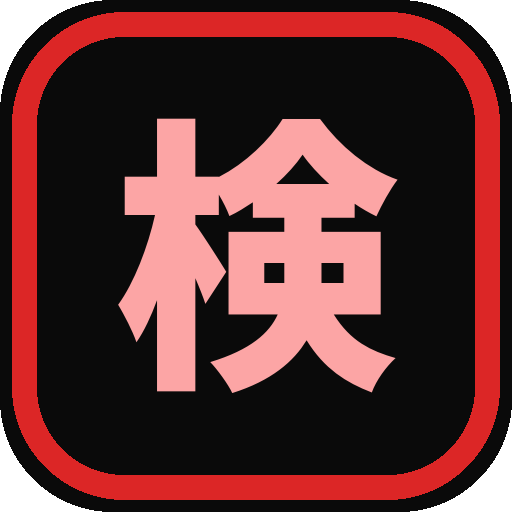
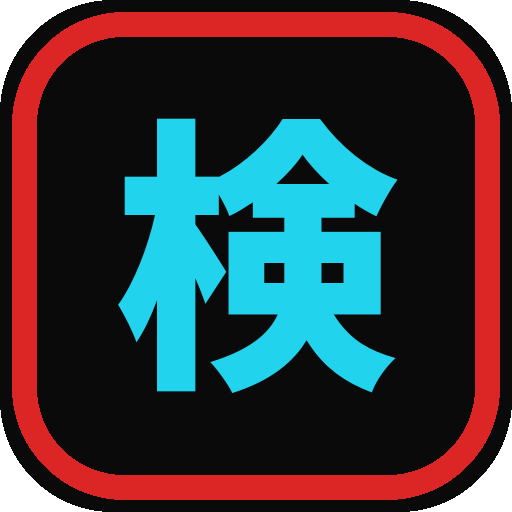
見出しと文字を水色に戻す（背景は黒のまま）

Changed region(s): [[0.2188, 0.2188, 0.7812, 0.7812]]

diff --git a/index.html b/index.html
@@ -19,7 +19,7 @@
   /* 管理用ページなので、検索くん（濃紺＋水色）とはっきり違う色にする。
      開いた瞬間に「いま何を触っているか」が分かるほうが、誤送信を防げる。 */
   --bg:#0a0a0a; --card:#161616; --card2:#1f1f1f; --line:#3a3a3a;
-  --text:#f2f2f2; --dim:#9a9a9a; --cyan:#f87171;   /* 差し色は赤系 */
+  --text:#f2f2f2; --dim:#9a9a9a; --cyan:#22d3ee;   /* 見出しなどの文字は水色（黒地に映える） */
 }
 *{box-sizing:border-box}
 body{
@@ -45,7 +45,7 @@ textarea{min-height:120px;resize:vertical}
   background:var(--card2);border:2px solid var(--line);border-radius:10px;
   font-weight:700;cursor:pointer;user-select:none;
 }
-.app.on{border-color:#f87171;background:rgba(248,113,113,.14)}
+.app.on{border-color:#22d3ee;background:rgba(34,211,238,.14)}
 .app .mk{font-size:18px;width:20px;text-align:center}
 .allbtn{
   width:100%;padding:10px;margin-top:10px;background:var(--card2);
@@ -80,10 +80,10 @@ button:disabled{opacity:.45}
 .quick{display:flex;flex-wrap:wrap;gap:8px;margin-top:8px}
 .quick button{
   padding:9px 13px;font-size:13px;font-weight:700;
-  color:#fca5a5;                      /* 背景が黒なので、明るい赤系にする */
-  background:#2a1a1a;border:1px solid #5a3030;border-radius:20px;cursor:pointer;
+  color:#7dd3fc;                      /* 背景が黒なので、明るい水色にする */
+  background:#12262e;border:1px solid #2b5566;border-radius:20px;cursor:pointer;
 }
-.quick button:active{background:#3d2222;color:#fff}
+.quick button:active{background:#1b3a47;color:#fff}
 /* お知らせバナーの編集欄 */
 .news-item{
   display:flex;align-items:center;gap:10px;padding:10px;margin-bottom:8px;
@@ -103,7 +103,7 @@ button:disabled{opacity:.45}
 .clear{background:#475569}
 /* カードの中の見出し。何をする欄なのか一目で分かるようにする */
 .section-head{
-  font-size:16px;font-weight:800;color:#fca5a5;
+  font-size:16px;font-weight:800;color:#22d3ee;
   padding-bottom:10px;margin-bottom:14px;
   border-bottom:1px solid var(--line);
 }
